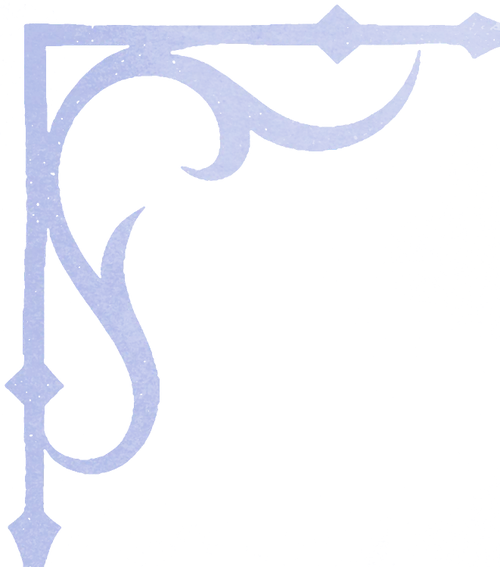
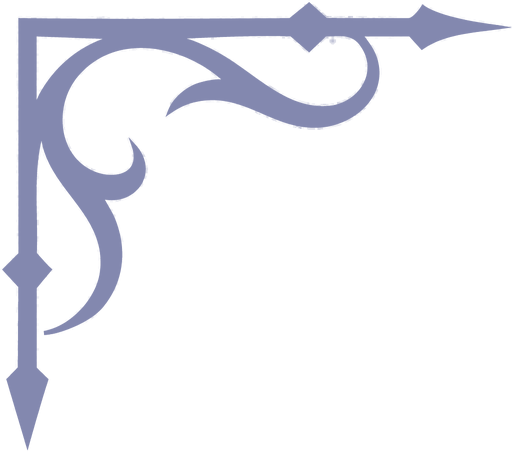
Final scene per revised poster 03; credits roll up after the corners; slower gate
- corner ornament re-cut from the poster; positions/sizes re-measured (venue, date,
  countdown, names, logo)
- reveal: four corners first, then centre elements rise from below in sequence
- gate swing/push 1.35s -> 1.75s, night crossfade 1.6s, credits at 2.7s

Claude-Session: https://claude.ai/code/session_01LpWJ5sExNUynViNhWpLntG

Changed region(s): [[0.0, 0.0, 1.0, 1.0]]

diff --git a/index.html b/index.html
@@ -41,7 +41,7 @@ button{font:inherit;color:inherit;background:none;border:0}
 .stage{position:absolute;inset:0;transform:scale(.86);transition:transform 1.7s cubic-bezier(.25,.6,.2,1)}
 .enter .stage{transform:none}
 .sky{position:absolute;inset:0;width:100%;height:100%;max-width:none;object-fit:cover}
-.sky.night{opacity:0;transition:opacity 1.3s ease .45s}
+.sky.night{opacity:0;transition:opacity 1.6s ease .6s}
 .open .sky.night{opacity:1}
 /* poster-02 framing: a 16:9 frame (cover on wide screens, centred on phones) whose width the
    gate's arch spans, spire ~17% down; the bars sink into the mist toward the bottom */
@@ -49,10 +49,10 @@ button{font:inherit;color:inherit;background:none;border:0}
   -webkit-mask-image:linear-gradient(#000 66%,rgba(0,0,0,.38));mask-image:linear-gradient(#000 66%,rgba(0,0,0,.38))}
 @media (max-aspect-ratio:1/1){ .scene{-webkit-mask-image:linear-gradient(#000 60%,transparent);mask-image:linear-gradient(#000 60%,transparent)} }
 .gate{position:absolute;left:0;top:-8.1%;width:100%;aspect-ratio:1600/2504;perspective:1500px;perspective-origin:50% 21%;
-  transform-origin:50% 21%;transition:transform 1.35s cubic-bezier(.6,0,.85,.4)}
+  transform-origin:50% 21%;transition:transform 1.75s cubic-bezier(.6,0,.85,.4)}
 /* the leaves swing toward us — slowly, then fast — while the camera pushes through */
 .door{position:absolute;top:0;width:50%;height:100%;will-change:transform;
-  transition:transform 1.35s cubic-bezier(.6,0,.85,.4),opacity .3s ease 1.1s}
+  transition:transform 1.75s cubic-bezier(.6,0,.85,.4),opacity .4s ease 1.45s}
 .door img{width:100%;height:100%;max-width:none}
 .door.l{left:0;transform-origin:0 50%}
 .door.r{right:0;transform-origin:100% 50%}
@@ -145,21 +145,22 @@ button{font:inherit;color:inherit;background:none;border:0}
 .enter .pool,.enter .spill{animation:none;opacity:0;transition:opacity .3s}
 
 .hero .corner{z-index:2}
-.reveal .corner.rv{opacity:.8}
+.reveal .corner.rv{opacity:1}
 .muted{color:#9ea3c9;font-weight:400}
 /* phones: one stacked column, venue | logo | date at the foot */
 .content{position:relative;z-index:2;height:100%;display:grid;grid-template-columns:1fr auto 1fr;column-gap:10px;
   grid-template-areas:"t t t" "s s s" "c c c" "n n n" "m m m" "v l d";grid-template-rows:auto auto auto 1fr auto auto;
   align-items:center;justify-items:center;text-align:center;color:var(--lav);
   font-family:'Helvetica Neue',Helvetica,Arial,sans-serif;
-  padding:calc(env(safe-area-inset-top) + 18px + var(--cw)*1.134 + 8px) 24px calc(env(safe-area-inset-bottom) + 18px + var(--cw)*1.134 + 6px);
+  padding:calc(env(safe-area-inset-top) + 18px + var(--cw)*.882 + 8px) 24px calc(env(safe-area-inset-bottom) + 18px + var(--cw)*.882 + 6px);
   pointer-events:none}
 .content h2{grid-area:t}.content h3{grid-area:s}.content h4{grid-area:c}.count{grid-area:n}.names{grid-area:m}
 .venue{grid-area:v;justify-self:start;text-align:left}.date{grid-area:d;justify-self:end;text-align:right}.logo{grid-area:l}
 .amp{font-family:'Helvetica Neue',Helvetica,Arial,sans-serif}
 
 /* elements slide in from the top, one after another (translate keeps the corners' mirror transforms intact) */
-.rv{opacity:0;translate:0 -26px;transition:opacity 1s ease,translate 1.2s cubic-bezier(.2,.7,.2,1);transition-delay:calc(var(--i)*.12s)}
+.rv{opacity:0;translate:0 26px;transition:opacity 1s ease,translate 1.3s cubic-bezier(.2,.7,.2,1);transition-delay:calc(.7s + var(--i)*.12s)}
+.corner.rv{transition-delay:0s;transition-duration:1.1s,1.3s}
 .reveal .rv{opacity:1;translate:none}
 
 /* frameless split-flap: no card, just the fold — top half falls, bottom half lands */
@@ -201,27 +202,28 @@ button{font:inherit;color:inherit;background:none;border:0}
 
 /* wide screens: the poster-03 layout, sized in --u (1/100 of a 16:9 frame that fits the screen) */
 @media (min-aspect-ratio:4/3){
-  .hero{--u:min(1vw,1.7778svh);--cw:calc(var(--u)*16.5)}
-  .corner.tl,.corner.tr{top:max(calc(50% - var(--u)*22.8),14px)}
-  .corner.bl,.corner.br{bottom:max(calc(50% - var(--u)*22.8),14px)}
-  .corner.tl,.corner.bl{left:max(calc(50% - var(--u)*44.4),14px)}
-  .corner.tr,.corner.br{right:max(calc(50% - var(--u)*44.4),14px)}
+  .hero{--u:min(1vw,1.7778svh);--cw:calc(var(--u)*17.1)}
+  .corner.tl,.corner.tr{top:max(calc(50% - var(--u)*23.63),14px)}
+  .corner.bl,.corner.br{bottom:max(calc(50% - var(--u)*23.63),14px)}
+  .corner.tl,.corner.bl{left:max(calc(50% - var(--u)*45.5),14px)}
+  .corner.tr,.corner.br{right:max(calc(50% - var(--u)*45.5),14px)}
   .content{position:absolute;left:50%;top:50%;width:calc(var(--u)*100);height:calc(var(--u)*55.55);translate:-50% -50%;
     display:block;padding:0}
   .content>*{position:absolute;left:0;right:0}
   .hero h2{top:calc(var(--u)*8.95);font-size:calc(var(--u)*3.62)}
   .hero h3{top:calc(var(--u)*13.05);font-size:calc(var(--u)*2.2);margin:0}
   .hero h4{top:calc(var(--u)*17.45);font-size:calc(var(--u)*1.72);margin:0}
-  .venue,.date{top:calc(var(--u)*17.45);font-size:calc(var(--u)*1.42);line-height:1.24}
-  .venue{left:calc(var(--u)*12.3);right:auto}.date{right:calc(var(--u)*12.3);left:auto}
-  .count{top:calc(var(--u)*26.7);gap:0}
-  .unit{width:calc(var(--u)*12.6);gap:calc(var(--u)*1.6)}
-  .digits{font-size:calc(var(--u)*6.5)}
+  .venue,.date{top:calc(var(--u)*17.85);font-size:calc(var(--u)*1.2);line-height:1.14}
+  .venue{left:calc(var(--u)*14.36);right:auto}.date{right:calc(var(--u)*14.4);left:auto}
+  .count{top:calc(var(--u)*24.4);gap:0}
+  .unit{width:calc(var(--u)*12.6);gap:calc(var(--u)*1.05)}
+  .digits{font-size:calc(var(--u)*6.85)}
   .unit label{font-size:calc(var(--u)*1.45)}
-  .names{top:calc(var(--u)*38.4);font-size:calc(var(--u)*1.12);line-height:1.3;max-width:none;margin:0;letter-spacing:0}
-  .names span{display:block}
+  .names{top:calc(var(--u)*37.85);font-size:calc(var(--u)*.94);line-height:1.3;max-width:none;margin:0;letter-spacing:0}
+  .names span{display:block;word-spacing:.3em}
+  .names i::after{margin-left:.45em!important}
   .names span:not(:last-child)>i:last-child::after{content:none}
-  .logo{top:calc(var(--u)*46.8);left:50%;right:auto;width:calc(var(--u)*2.4);translate:-50% 0}
+  .logo{top:calc(var(--u)*45.7);left:50%;right:auto;width:calc(var(--u)*3.6);translate:-50% 26px}
   .reveal .logo.rv{translate:-50% 0}
 }
 
@@ -318,7 +320,7 @@ function update(){
     const v={d:Math.min(99,Math.floor(s/86400)),h:Math.floor(s/3600)%24,m:Math.floor(s/60)%60,s:s%60};
     let i=0;
     for(const k in v){
-      const str=String(v[k]).padStart(2,'0'), d=first?.5+i++*.12:0;   // first reveal follows the top-down slide-in
+      const str=String(v[k]).padStart(2,'0'), d=first?1.15+i++*.12:0;   // first reveal follows the top-down slide-in
       cards[k][0].set(str[0],d); cards[k][1].set(str[1],d+.06);
     }
     first=false;
@@ -339,7 +341,7 @@ document.getElementById('key').addEventListener('click',()=>{
   hero.classList.add('enter');                                        // rush through the keyhole into the gate scene
   setTimeout(()=>hero.classList.add('open'),850);                     // as we come through, the gate starts to part
   setTimeout(()=>hero.classList.add('done'),1300);                    // wall is gone
-  setTimeout(()=>{ hero.classList.add('reveal'); opened=true; update(); },2250);  // night has fallen, credits slide in
+  setTimeout(()=>{ hero.classList.add('reveal'); opened=true; update(); },2700);  // night has fallen, credits slide in
 });
 
 // dust drifting through the beam: only specks inside the light show up
